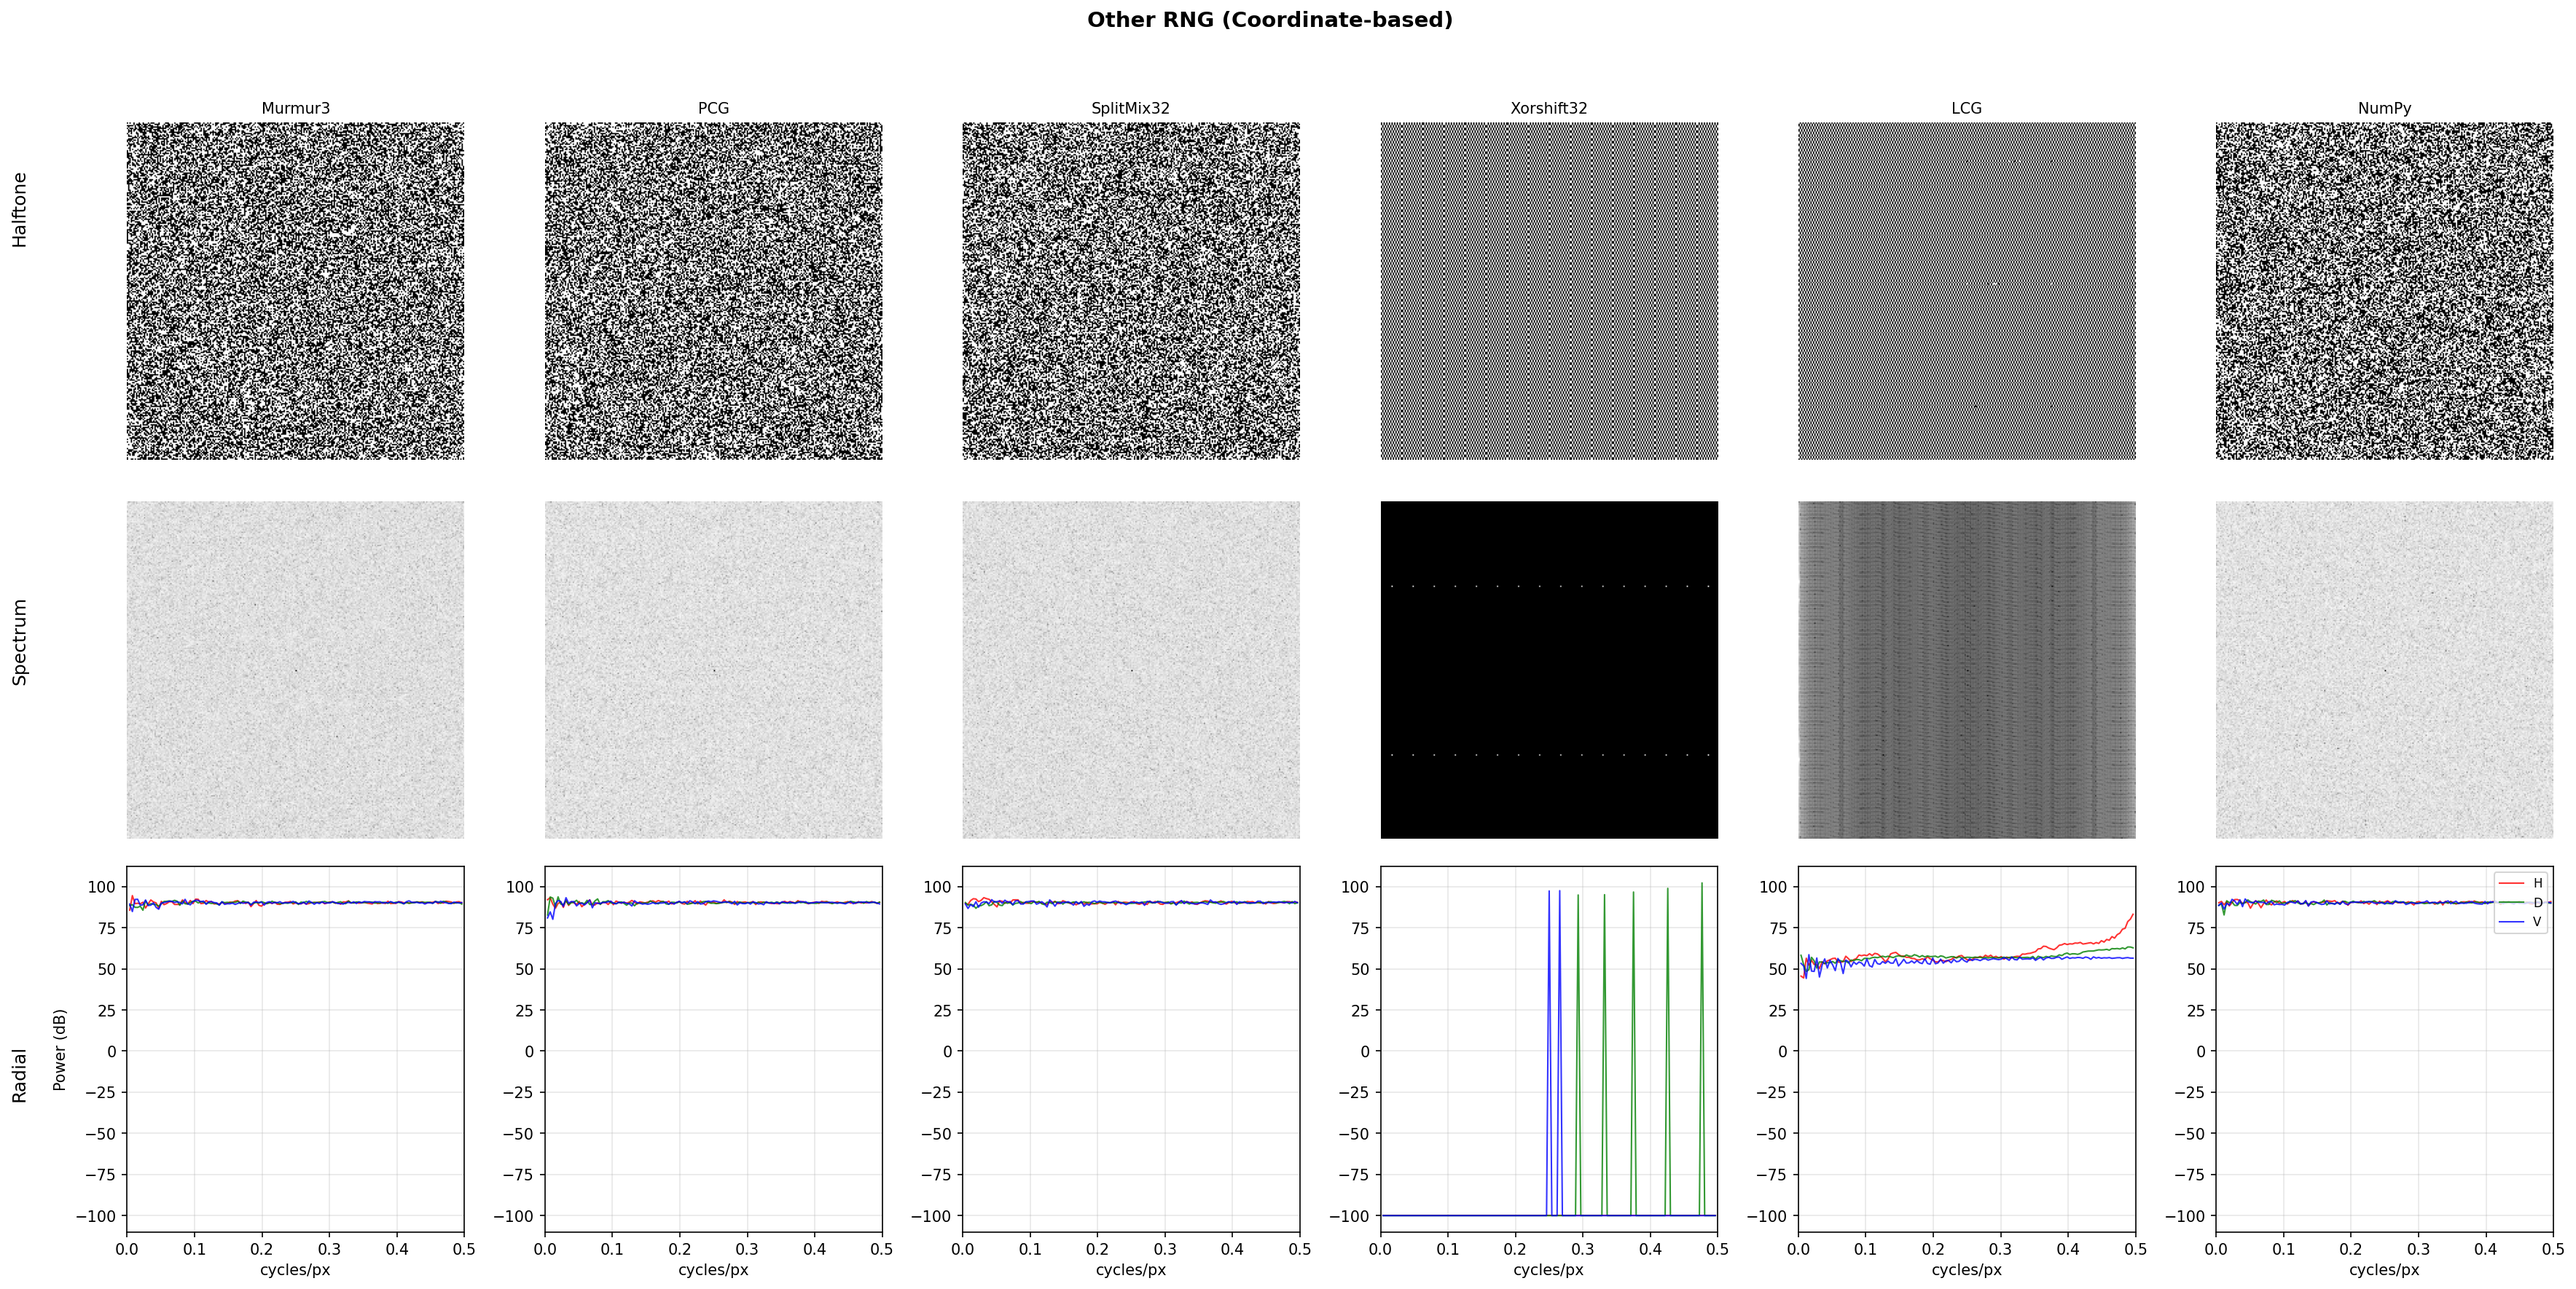
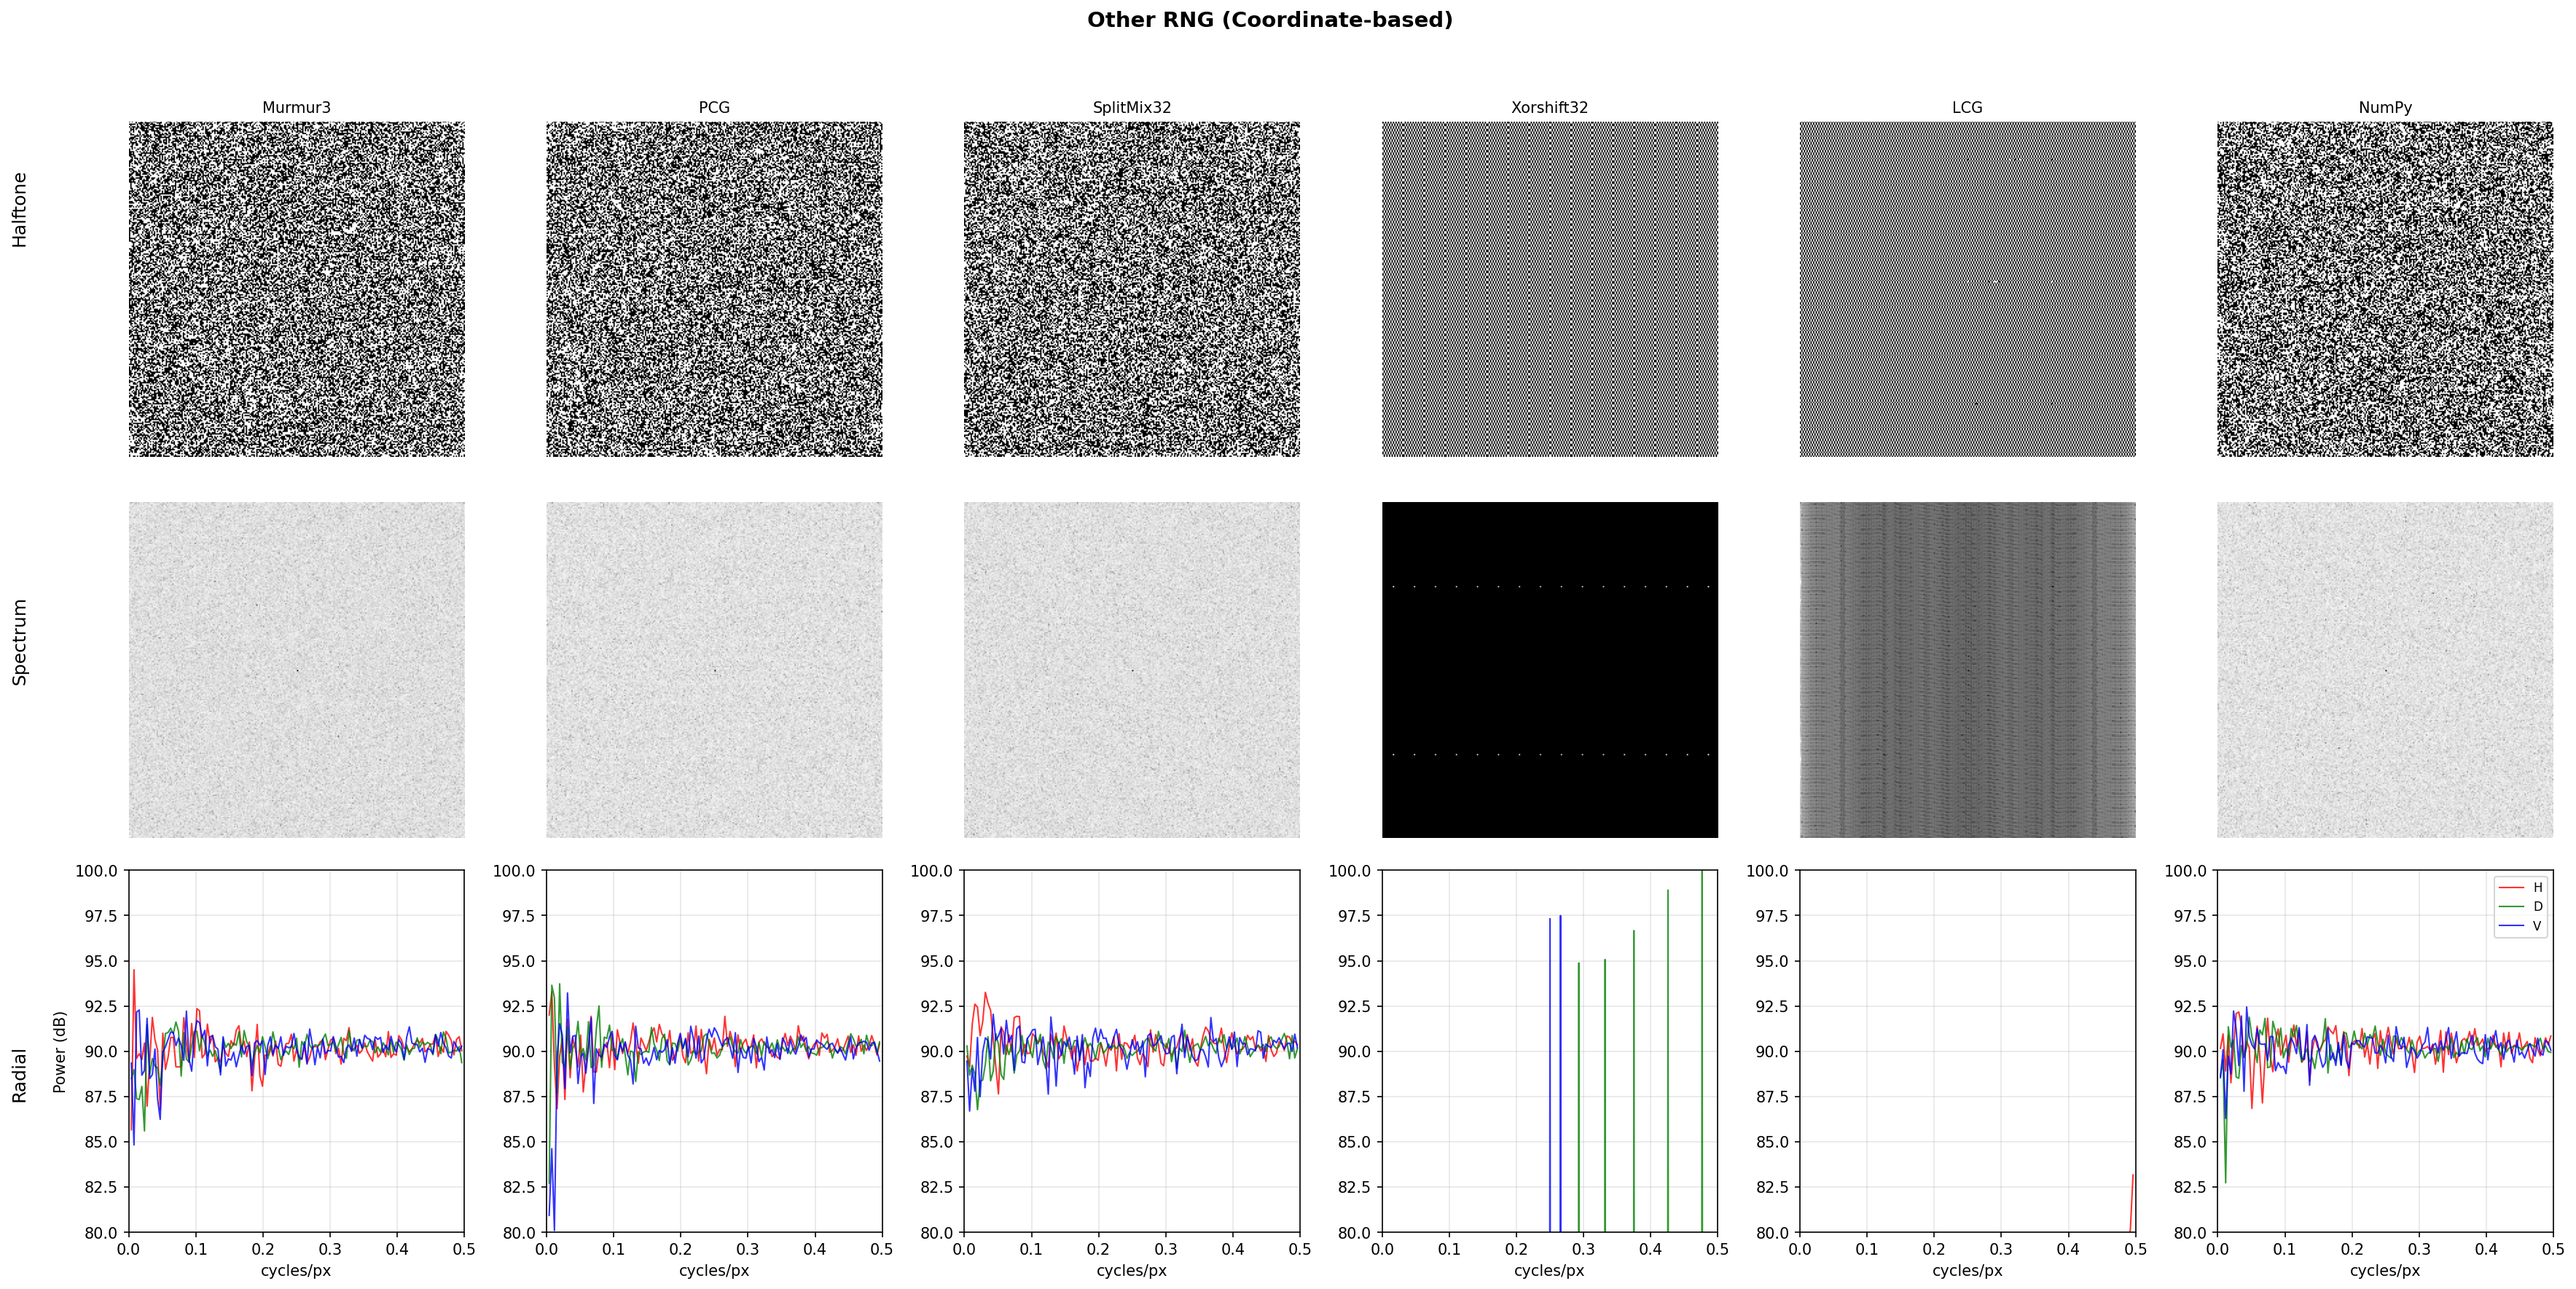
Update rng samples

diff --git a/tools/analyze_dither.py b/tools/analyze_dither.py
@@ -413,14 +413,18 @@ def analyze_hash_comparison(base_dir: Path, image_name: str, output_dir: Path):
     print(f"  {output_path.name}")
 
 
-def plot_rng_comparison(images: dict, title: str, output_path: Path, excluded_from_scale: set):
+def plot_rng_comparison(images: dict, title: str, output_path: Path,
+                       excluded_from_scale: set,
+                       fixed_ylim: tuple[float, float] | None = None):
     """Generate comparison figure for RNG methods with fixed scale for good hashes.
 
     Args:
         images: dict of method_name -> image array
         title: plot title
         output_path: where to save
-        excluded_from_scale: set of method names that should use auto-scale (e.g., Wang, IQ)
+        excluded_from_scale: set of method names that should use auto-scale (e.g., Wang)
+        fixed_ylim: If set, use this (min, max) for the radial chart Y-axis
+                    on all columns except those in excluded_from_scale.
     """
     n_methods = len(images)
     fig, axes = plt.subplots(3, n_methods, figsize=(4 * n_methods, 12))
@@ -443,7 +447,7 @@ def plot_rng_comparison(images: dict, title: str, output_path: Path, excluded_fr
             global_min_db = min(global_min_db, h_db.min(), d_db.min(), v_db.min())
             global_max_db = max(global_max_db, h_db.max(), d_db.max(), v_db.max())
 
-    # Add padding
+    # Add padding (only used when fixed_ylim is not set)
     if global_min_db < float('inf') and global_max_db > float('-inf'):
         y_padding = (global_max_db - global_min_db) * 0.05
         global_min_db -= y_padding
@@ -470,8 +474,12 @@ def plot_rng_comparison(images: dict, title: str, output_path: Path, excluded_fr
         axes[2, col].set_xlabel('cycles/px')
         axes[2, col].grid(True, alpha=0.3)
 
-        # Use global scale unless excluded
-        if method_name not in excluded_from_scale and global_min_db < float('inf'):
+        # Y-axis scaling
+        if method_name in excluded_from_scale:
+            pass  # matplotlib auto-scale
+        elif fixed_ylim is not None:
+            axes[2, col].set_ylim(fixed_ylim[0], fixed_ylim[1])
+        elif global_min_db < float('inf'):
             axes[2, col].set_ylim(global_min_db, global_max_db)
 
         if col == 0:
@@ -497,8 +505,8 @@ def analyze_rng_noise(base_dir: Path, output_dir: Path):
         print(f"RNG noise directory not found: {rng_dir}")
         return
 
-    # Methods to exclude from fixed 75-100 scale (they have different characteristics)
-    excluded_from_scale = {'Wang', 'IQ Int1', 'IQ Int3'}
+    # Fixed Y-axis range for all RNG charts
+    rng_ylim = (80, 100)
 
     # GPU-friendly coordinate-based methods
     gpu_coord_methods = [
@@ -520,7 +528,28 @@ def analyze_rng_noise(base_dir: Path, output_dir: Path):
 
     if images:
         output_path = output_dir / "rng_noise_gpu_coord.png"
-        plot_rng_comparison(images, "GPU-Friendly RNG (Coordinate-based)", output_path, excluded_from_scale)
+        plot_rng_comparison(images, "GPU-Friendly RNG (Coordinate-based)", output_path, set(), fixed_ylim=rng_ylim)
+        print(f"  {output_path.name}")
+
+    # GPU-friendly coordinate-based (clean version, without IQ hashes)
+    gpu_coord_clean = [
+        ('wang_hash_coord.png', 'Wang'),
+        ('double_wang_coord.png', 'Double Wang'),
+        ('triple32_coord.png', 'Triple32'),
+        ('lowbias32_coord.png', 'Lowbias32'),
+        ('lowbias32_old_coord.png', 'Lowbias32_old'),
+        ('xxhash32_coord.png', 'xxHash32'),
+    ]
+
+    images = {}
+    for filename, label in gpu_coord_clean:
+        path = rng_dir / filename
+        if path.exists():
+            images[label] = load_image(path)
+
+    if images:
+        output_path = output_dir / "rng_noise_gpu_coord_clean.png"
+        plot_rng_comparison(images, "GPU-Friendly RNG (Coordinate-based)", output_path, set(), fixed_ylim=rng_ylim)
         print(f"  {output_path.name}")
 
     # Other coordinate-based methods
@@ -541,7 +570,7 @@ def analyze_rng_noise(base_dir: Path, output_dir: Path):
 
     if images:
         output_path = output_dir / "rng_noise_other_coord.png"
-        plot_comparison(images, "Other RNG (Coordinate-based)", output_path)
+        plot_comparison(images, "Other RNG (Coordinate-based)", output_path, fixed_ylim=rng_ylim)
         print(f"  {output_path.name}")
 
     # Sequential methods (GPU-friendly)
@@ -564,7 +593,49 @@ def analyze_rng_noise(base_dir: Path, output_dir: Path):
 
     if images:
         output_path = output_dir / "rng_noise_gpu_seq.png"
-        plot_rng_comparison(images, "GPU-Friendly RNG (Sequential)", output_path, excluded_from_scale)
+        plot_rng_comparison(images, "GPU-Friendly RNG (Sequential)", output_path, set(), fixed_ylim=rng_ylim)
+        print(f"  {output_path.name}")
+
+    # High-bit coordinate-based (without IQ hashes)
+    gpu_coord_highbit = [
+        ('wang_hash_coord_highbit.png', 'Wang'),
+        ('double_wang_coord_highbit.png', 'Double Wang'),
+        ('triple32_coord_highbit.png', 'Triple32'),
+        ('lowbias32_coord_highbit.png', 'Lowbias32'),
+        ('lowbias32_old_coord_highbit.png', 'Lowbias32_old'),
+        ('xxhash32_coord_highbit.png', 'xxHash32'),
+    ]
+
+    images = {}
+    for filename, label in gpu_coord_highbit:
+        path = rng_dir / filename
+        if path.exists():
+            images[label] = load_image(path)
+
+    if images:
+        output_path = output_dir / "rng_noise_gpu_coord_highbit.png"
+        plot_rng_comparison(images, "GPU-Friendly RNG (Coordinate-based, High Bit)", output_path, set(), fixed_ylim=rng_ylim)
+        print(f"  {output_path.name}")
+
+    # High-bit sequential (without IQ hashes)
+    gpu_seq_highbit = [
+        ('wang_hash_seq_highbit.png', 'Wang'),
+        ('double_wang_seq_highbit.png', 'Double Wang'),
+        ('triple32_seq_highbit.png', 'Triple32'),
+        ('lowbias32_seq_highbit.png', 'Lowbias32'),
+        ('lowbias32_old_seq_highbit.png', 'Lowbias32_old'),
+        ('xxhash32_seq_highbit.png', 'xxHash32'),
+    ]
+
+    images = {}
+    for filename, label in gpu_seq_highbit:
+        path = rng_dir / filename
+        if path.exists():
+            images[label] = load_image(path)
+
+    if images:
+        output_path = output_dir / "rng_noise_gpu_seq_highbit.png"
+        plot_rng_comparison(images, "GPU-Friendly RNG (Sequential, High Bit)", output_path, set(), fixed_ylim=rng_ylim)
         print(f"  {output_path.name}")
 
 

diff --git a/tools/generate_rng_noise.py b/tools/generate_rng_noise.py
@@ -130,31 +130,32 @@ def iqint3(seed: np.uint32) -> np.uint32:
     return seed
 
 
-def generate_noise_image(width: int, height: int, hash_func, name: str) -> np.ndarray:
-    """Generate 1-bit noise using hash(x ^ (y << 16) ^ seed) & 1."""
+def generate_noise_image(width: int, height: int, hash_func, name: str, use_high_bit: bool = False) -> np.ndarray:
+    """Generate 1-bit noise using hash(x ^ (y << 16) ^ seed)."""
     img = np.zeros((height, width), dtype=np.uint8)
     seed = np.uint32(12345)
+    bit_mask = np.uint32(0x80000000) if use_high_bit else np.uint32(1)
 
     for y in range(height):
         for x in range(width):
             # Combine coordinates into seed
             coord_seed = np.uint32(x) ^ (np.uint32(y) << np.uint32(16)) ^ seed
             h = hash_func(coord_seed)
-            # Use LSB for 1-bit output
-            img[y, x] = 255 if (h & 1) else 0
+            img[y, x] = 255 if (h & bit_mask) else 0
 
     return img
 
 
-def generate_noise_sequential(width: int, height: int, hash_func, name: str) -> np.ndarray:
+def generate_noise_sequential(width: int, height: int, hash_func, name: str, use_high_bit: bool = False) -> np.ndarray:
     """Generate 1-bit noise using sequential hashing (hash of previous)."""
     img = np.zeros((height, width), dtype=np.uint8)
     state = np.uint32(12345)
+    bit_mask = np.uint32(0x80000000) if use_high_bit else np.uint32(1)
 
     for y in range(height):
         for x in range(width):
             state = hash_func(state)
-            img[y, x] = 255 if (state & 1) else 0
+            img[y, x] = 255 if (state & bit_mask) else 0
 
     return img
 
@@ -203,6 +204,16 @@ def main():
         img = generate_noise_sequential(width, height, func, name)
         save_image(img, output_dir / f"{name}_seq.png")
 
+    print("\nCoordinate-based high bit (hash(x ^ y<<16 ^ seed) >> 31):")
+    for func, name in hash_funcs:
+        img = generate_noise_image(width, height, func, name, use_high_bit=True)
+        save_image(img, output_dir / f"{name}_coord_highbit.png")
+
+    print("\nSequential high bit (hash(prev_state) >> 31):")
+    for func, name in hash_funcs:
+        img = generate_noise_sequential(width, height, func, name, use_high_bit=True)
+        save_image(img, output_dir / f"{name}_seq_highbit.png")
+
     # Also generate reference white noise using numpy
     print("\nReference:")
     np.random.seed(12345)
@@ -211,7 +222,7 @@ def main():
 
     # Blue noise reference (if we had one - for now skip)
 
-    print(f"\nDone! Generated {len(hash_funcs) * 2 + 1} images")
+    print(f"\nDone! Generated {len(hash_funcs) * 4 + 1} images")
 
 
 if __name__ == "__main__":
